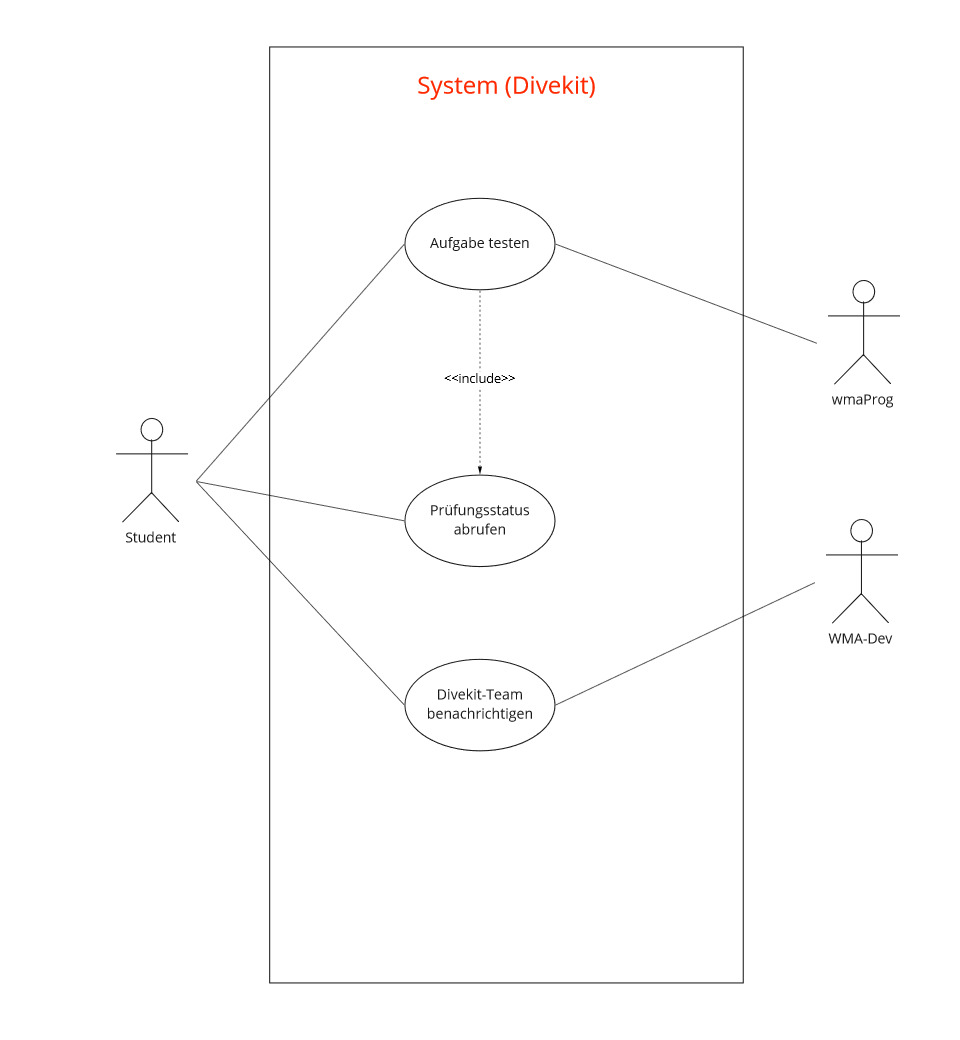
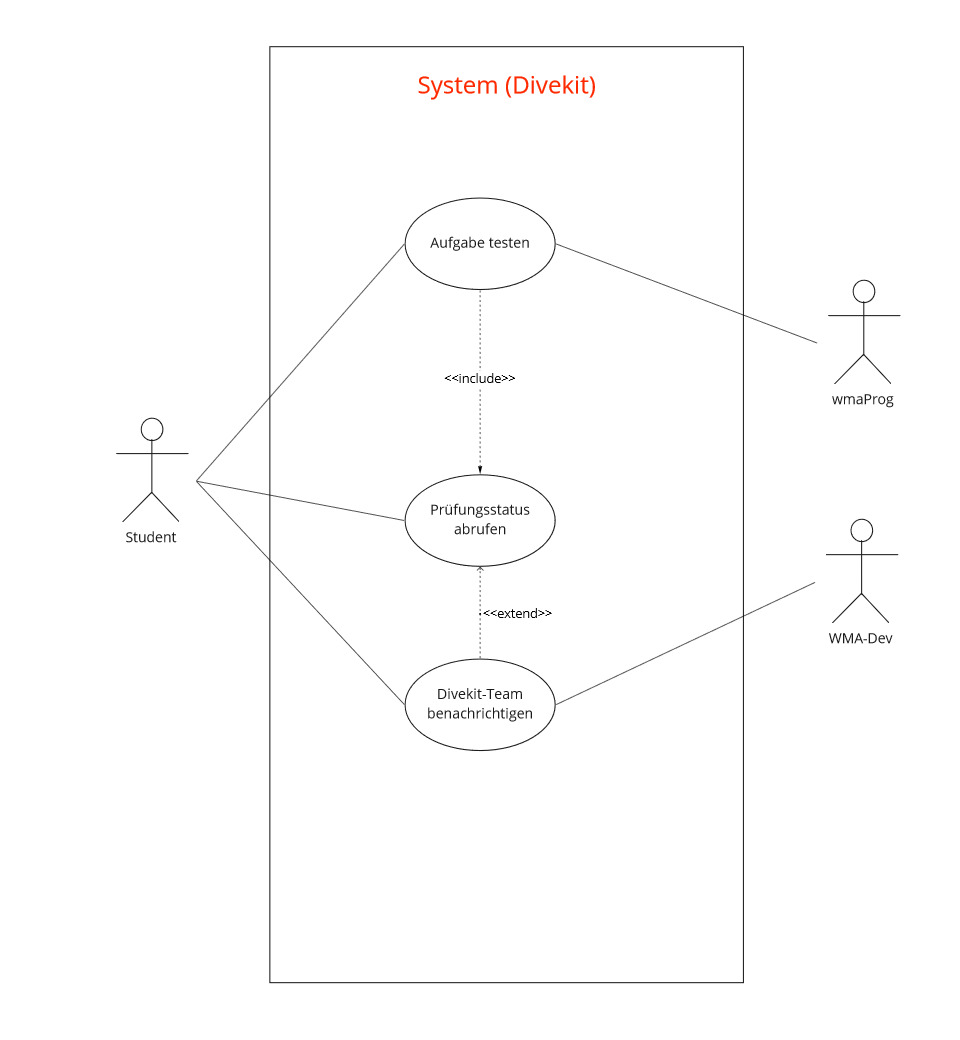
Resolved issuess in aussagekräftigeFehlermeldung from review

diff --git a/_useCaseDiagrams/aussagekräftigeFehlermeldung.md b/_useCaseDiagrams/aussagekräftigeFehlermeldung.md
@@ -21,9 +21,10 @@ history:
     v3:
         date: 2021-07-19
         comment: added wmaProg as actor 
+    v4: 
+        date: 28-07-28
+        comment: resolved review issues
 todo: 
-    - Tippfehler bei "Use Case Prüfungsstatus erlaubt" (review)
-    - Das System sollte auch automatisch den WMA-Dev benachrichtigen können (review)
 ---
 
 ## Beschreibung
@@ -34,8 +35,9 @@ in Verbindung stehen.
 Der Use Case "Aufgabe testen" wird vom Studenten ausgeführt, um seine Aufgaben überprüfen zu lassen. Es soll eine 
 Rückmeldung geben, ob die Aufgabe richtig/falsch ist oder ob der Test derzeit nicht durchführbar ist.
 
-Der Use Case Prüfungsstatus erlaubt es dem Nutzer einzusehen, in welchem Zustand die Prüfung einer Aufgabe ist. Wenn die
-Prüfung vom System nicht durchführbar ist, wird hier der Systemfehler kommuniziert.
+Der Use Case Prüfungsstatus abrufen erlaubt es dem Nutzer einzusehen, in welchem Zustand die Prüfung einer Aufgabe ist. Wenn die
+Prüfung vom System nicht durchführbar ist, wird hier der Systemfehler an den Studenten kommuniziert. Zusätzlich wird ein wma-Dev benachrichtigt,
+wenn ein Systemfehler vorliegt-
 
 Wenn so ein Fehler auftritt, kann der Nutzer sofort einen Bug-Report rausschicken, der an die Entwickler vom Divekit
 gesendet wird. 
